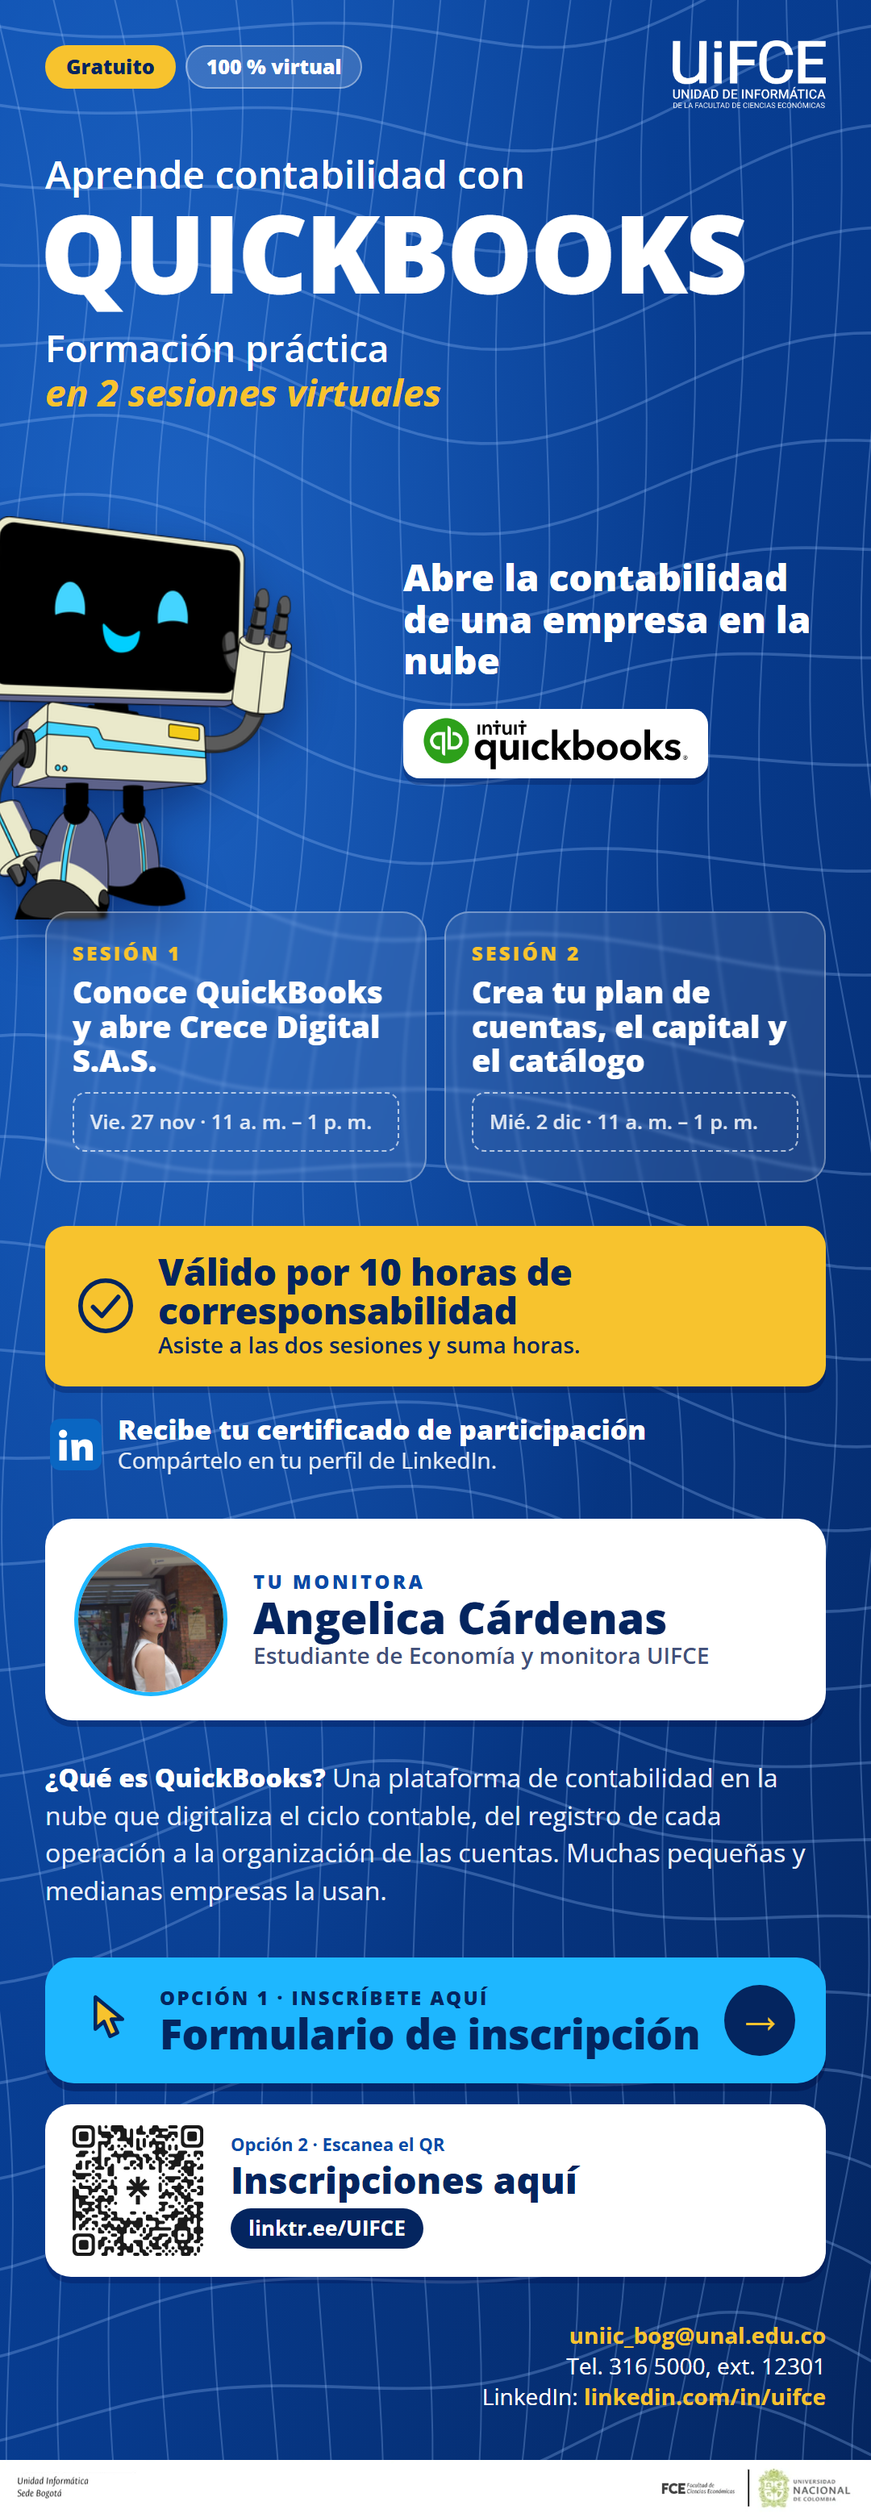
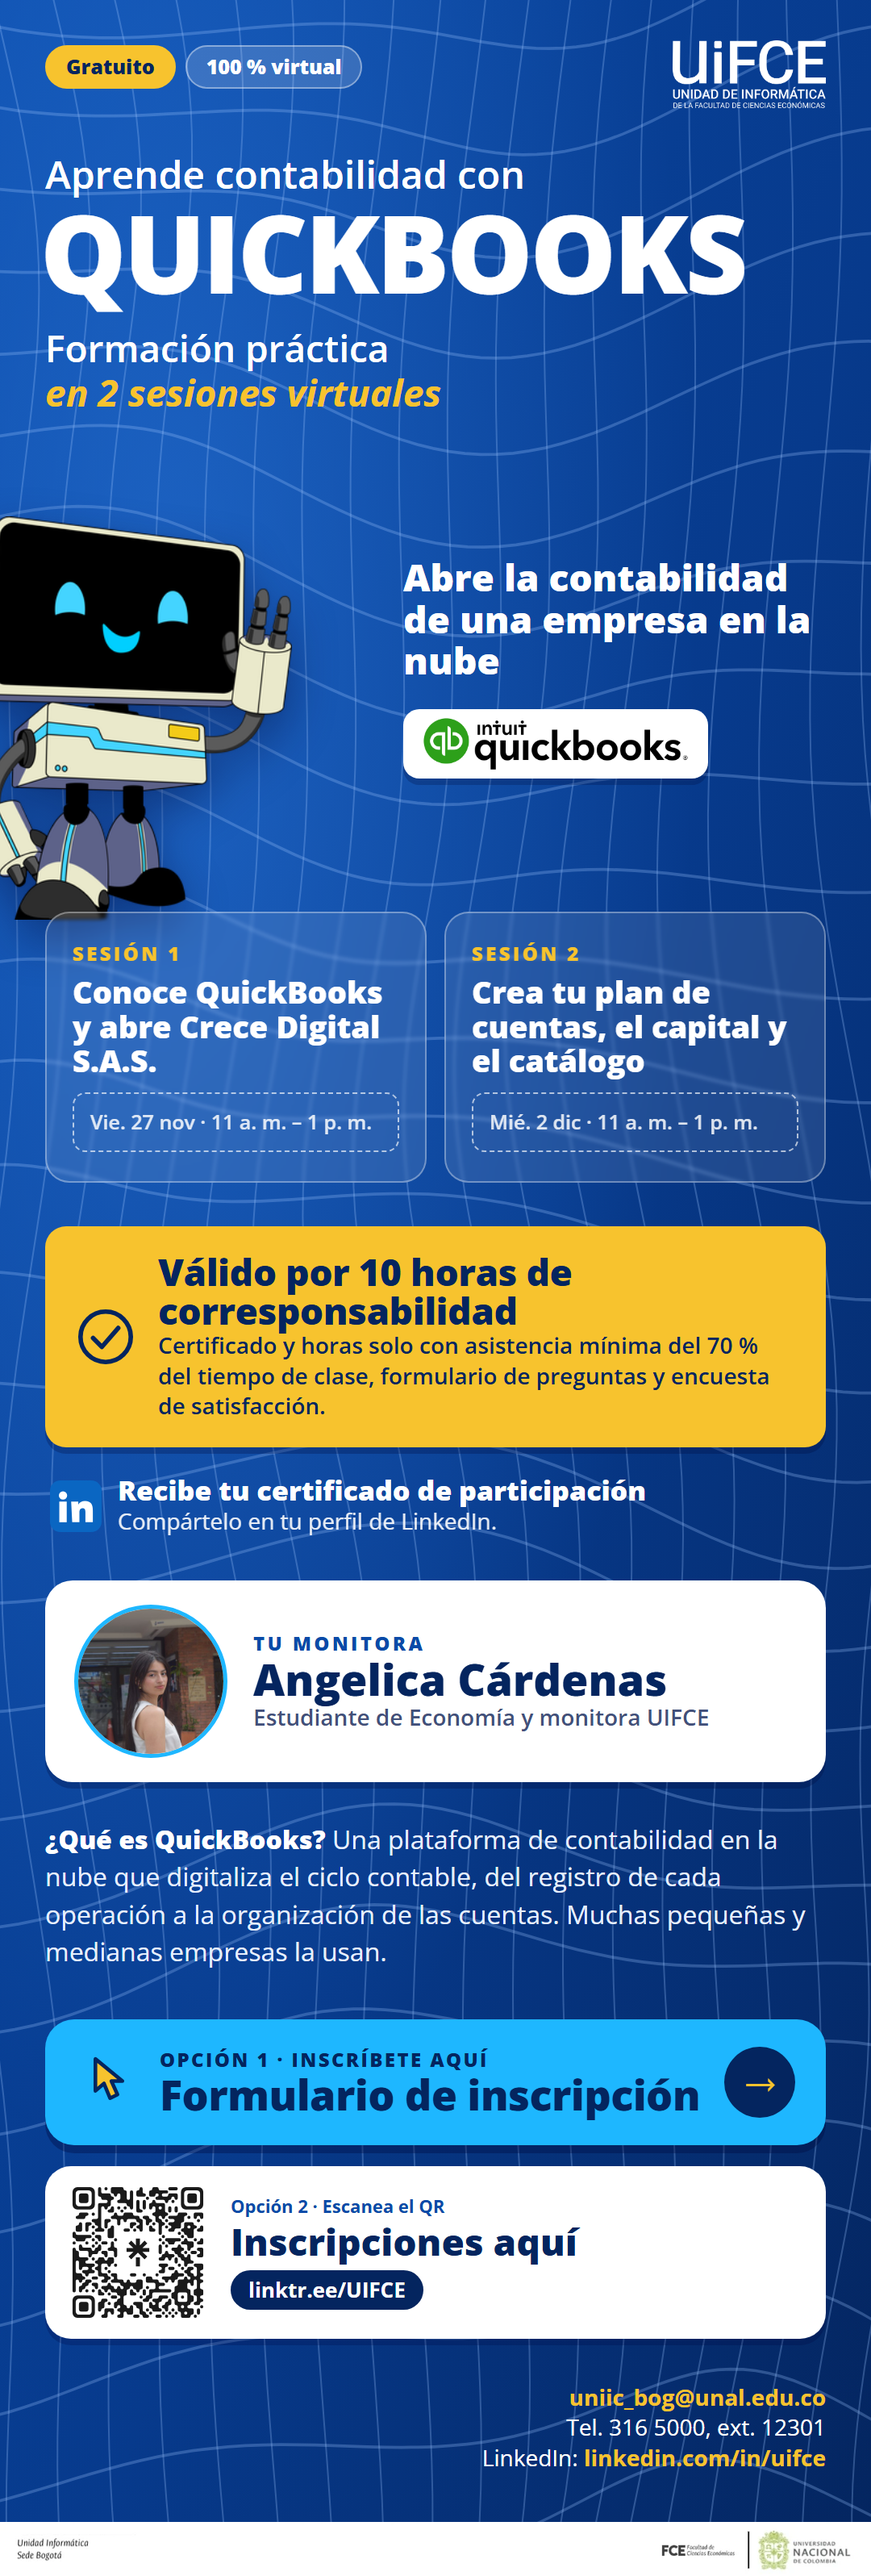
P4: certificado y horas de corresponsabilidad con 70% de asistencia, formulario de preguntas y encuesta

diff --git a/propuesta-4/index.html b/propuesta-4/index.html
@@ -93,7 +93,7 @@
 
   <div class="hours">
     <svg viewBox="0 0 50 50" fill="none" stroke="#04255f" stroke-width="3.6" stroke-linecap="round" stroke-linejoin="round"><circle cx="25" cy="25" r="20"/><path d="M15 26l7 7 13-15"/></svg>
-    <div><b>Válido por 10 horas de corresponsabilidad</b><span>Asiste a las dos sesiones y suma horas.</span></div>
+    <div><b>Válido por 10 horas de corresponsabilidad</b><span>Certificado y horas solo con asistencia mínima del 70&nbsp;% del tiempo de clase, formulario de preguntas y encuesta de satisfacción.</span></div>
   </div>
   <div class="cert">
     <svg width="64" height="64" viewBox="0 0 50 50" role="img" aria-label="LinkedIn" style="flex:none"><rect width="50" height="50" rx="10" fill="#0A66C2"/><circle cx="12.6" cy="14.6" r="4" fill="#fff"/><rect x="9" y="20.5" width="7.2" height="20" fill="#fff"/><path d="M20.5 20.5h6.9v2.9c1.2-2 3.4-3.4 6.6-3.4 6 0 7.5 3.9 7.5 9.2v11.3h-7.2V30.8c0-2.2-.4-3.9-2.6-3.9-2.4 0-3.2 1.7-3.2 4.2v9.4h-7z" fill="#fff"/></svg>

diff --git a/index.html b/index.html
@@ -56,12 +56,12 @@
   </section>
   <section class="panel" id="p4" role="tabpanel" aria-labelledby="tab-4" hidden>
     <div class="actions"><a href="propuesta-4/infografia.png" download>Descargar PNG ↓</a></div>
-    <div class="frame" id="frame4"><iframe id="if4" src="propuesta-4/index.html" title="Propuesta 4" scrolling="no" width="1080" height="3117"></iframe></div>
+    <div class="frame" id="frame4"><iframe id="if4" src="propuesta-4/index.html" title="Propuesta 4" scrolling="no" width="1080" height="3193"></iframe></div>
   </section>
 </main>
 <script>
   var tabs=document.querySelectorAll('nav button'), panels={1:document.getElementById('p1'),2:document.getElementById('p2'),3:document.getElementById('p3'),4:document.getElementById('p4')};
-  var SIZES={1:[1080,3803],2:[1080,4536],3:[1080,3631],4:[1080,3117]};
+  var SIZES={1:[1080,3803],2:[1080,4536],3:[1080,3631],4:[1080,3193]};
   function fit(){
     var cw=document.documentElement.clientWidth;
     [1,2,3,4].forEach(function(n){
